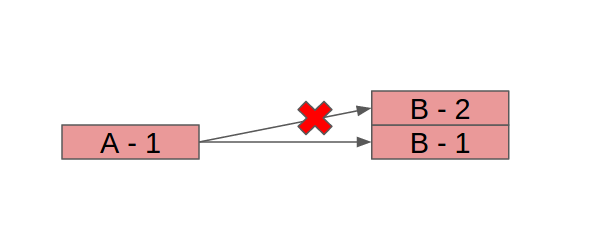
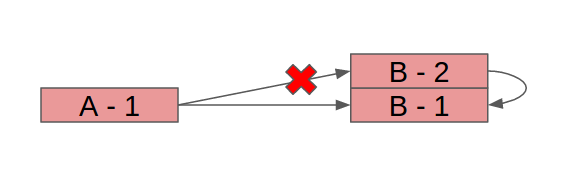
fixed backwards compatibility description

Changed region(s): [[0.0616, 0.2646, 0.8938, 0.6878], [0.8938, 0.4233, 0.9247, 0.5026]]

diff --git a/README.md b/README.md
@@ -87,16 +87,23 @@ First lets look at the current situation:
 ![The example from above](doc/simple-version-1.png)
 
 We have service B in version 1. For the sake of simplicity the version of B will always be the same as the current
-version of the contract (B in version 1 means contract with version 1). Service A in version 1 confirms to the contract
-of B (represented by the arrow). This means we can deploy both services together and they can interact. The tests described
-above are showing us that this works.
+version of the contract (B in version 1 means contract with version 1). **A consumer always has to confirm to its own
+contract**. Service A in version 1 confirms to the contract of B (represented by the arrow).
+This means we can deploy both services together and they can interact. The tests described above are showing us that
+this works.
 
 Now the requirements for B change. We have to change the behaviour of the service in a way that actually affects the
 contract. This results in a new version of the contract being published.
 
 ![A new version for B](doc/simple-version-2.png)
 
-We run the tests for A again and discover that the producer is not confirming to the new contract.
+The first thing we have to make sure is that our consumer is backwards compatible. As the old events will stay in the
+history this is the only way to make sure that B is still able to consume the whole history of events without struggling.
+
+![A new version for B](doc/simple-version-2-contract.png)
+
+Now that we know our consumer will still work we can run the tests for A again and discover that the producer is not
+confirming to the new contract.
 
 ![Broken contracts](doc/simple-version-2-broken.png)
 
@@ -104,12 +111,7 @@ So.. we have to create a new version of service A that confirms to the new versi
 
 ![A new version for A](doc/simple-version-2-fixed.png)
 
-Now we have a new version of both services which again can communicate with each other. The problem that we have now is
-that the history in our queue might be older and contain more events of the old version.
-
-The key insight now is to not only confirm to the current contract but to all of them.
-
-    Both provider and consumer always have to confirm to the full history of contracts!
+Now we have a new version of both services which again can communicate with each other. 
 
 ![Including the history](doc/simple-version-2-history.png)
 
